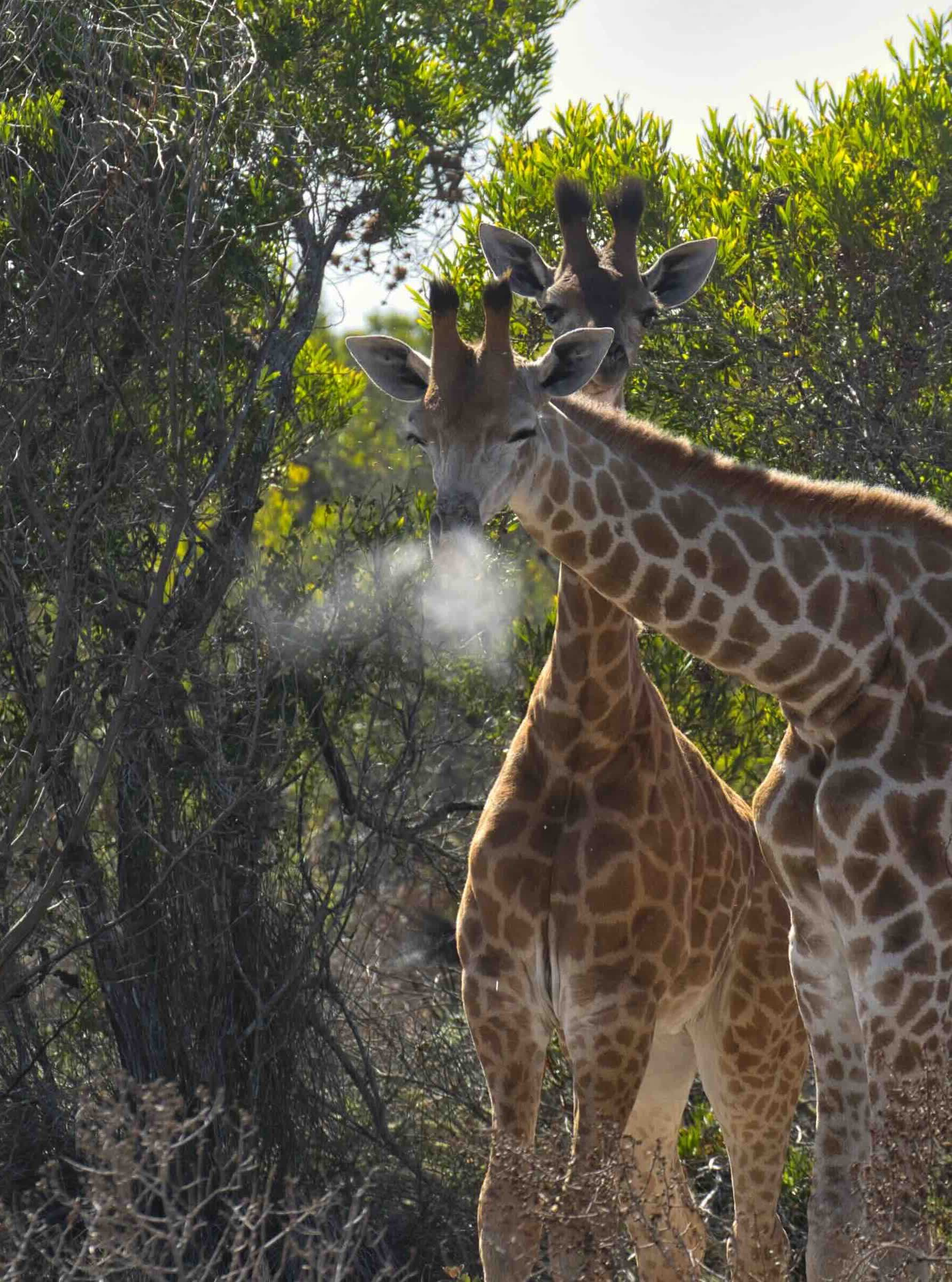
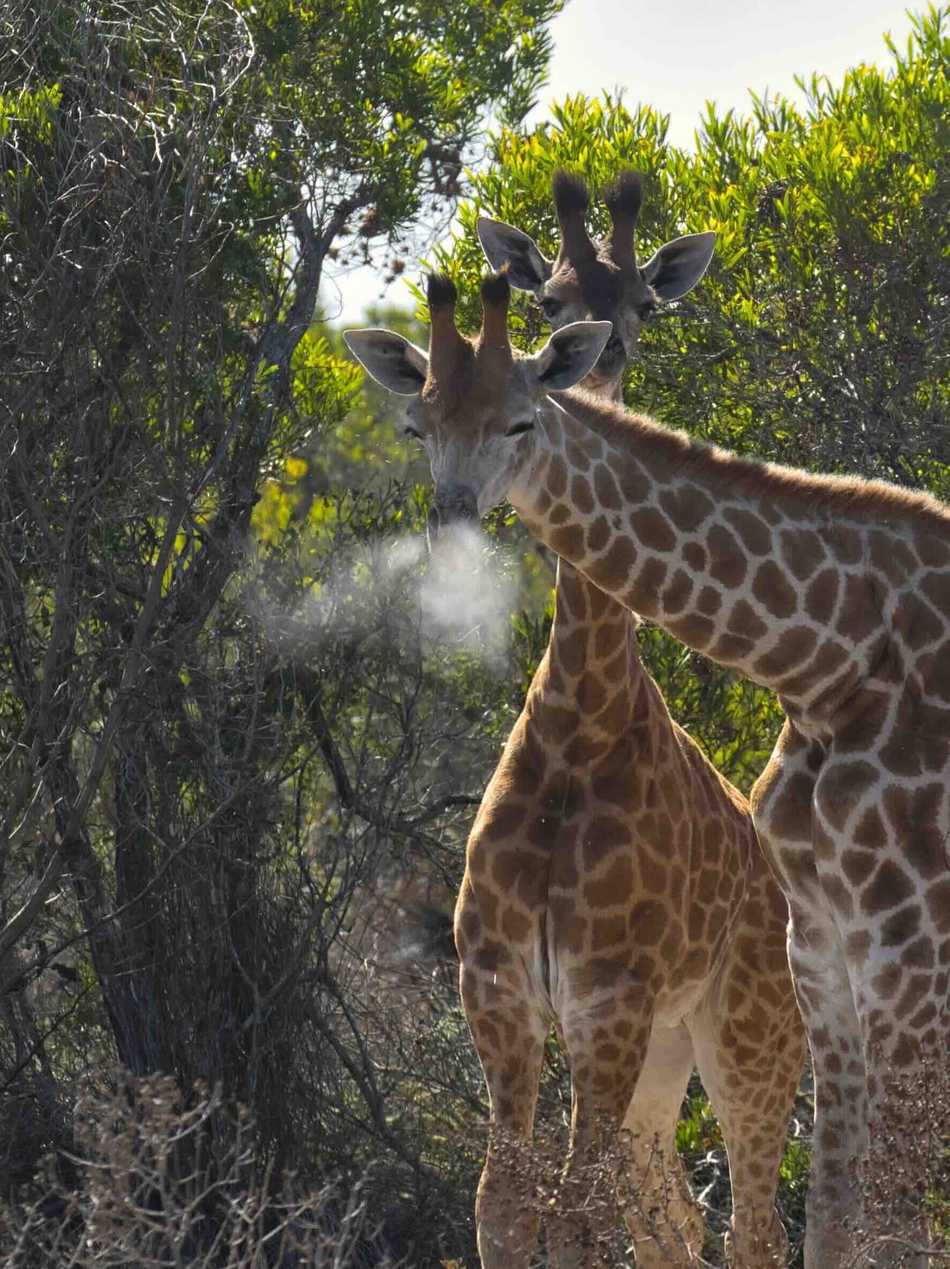
add image description to imageGrid2

diff --git a/frontend/app/components/blog/image-grid-2-mixed.tsx b/frontend/app/components/blog/image-grid-2-mixed.tsx
@@ -3,6 +3,8 @@ import { addRoundedCornersToImages } from "./image-utils";
 
 interface ImageGrid2MixedProps {
   children: ReactNode;
+  description1?: string;
+  description2?: string;
 }
 
 /**
@@ -15,14 +17,22 @@ interface ImageGrid2MixedProps {
  *
  * Layout:
  * [Landscape (2/3)] [Portrait (1/3)]
+ *
+ * Optional: description1 and description2 display italic captions below each image.
  */
-export function ImageGrid2Mixed({ children }: ImageGrid2MixedProps) {
+export function ImageGrid2Mixed({ children, description1, description2 }: ImageGrid2MixedProps) {
   const images = addRoundedCornersToImages(children);
 
   return (
     <div className="grid grid-cols-1 md:grid-cols-3 gap-4 my-6">
-      <div className="md:col-span-2">{images[0]}</div>
-      <div className="md:col-span-1 md:flex md:items-center">{images[1]}</div>
+      <div className="md:col-span-2">
+        {images[0]}
+        {description1 && <p className="image-description text-center italic !mt-2">{description1}</p>}
+      </div>
+      <div className="md:col-span-1 md:flex md:flex-col md:justify-center">
+        {images[1]}
+        {description2 && <p className="image-description text-center italic !mt-2">{description2}</p>}
+      </div>
     </div>
   );
 }

diff --git a/frontend/app/components/blog/image-grid-2.tsx b/frontend/app/components/blog/image-grid-2.tsx
@@ -3,6 +3,8 @@ import { addRoundedCornersToImages } from "./image-utils";
 
 interface ImageGrid2Props {
   children: ReactNode;
+  description1?: string;
+  description2?: string;
 }
 
 /**
@@ -15,14 +17,22 @@ interface ImageGrid2Props {
  *
  * Layout:
  * [Image 1 (50%)] [Image 2 (50%)]
+ *
+ * Optional: description1 and description2 display italic captions below each image.
  */
-export function ImageGrid2({ children }: ImageGrid2Props) {
+export function ImageGrid2({ children, description1, description2 }: ImageGrid2Props) {
   const images = addRoundedCornersToImages(children);
 
   return (
     <div className="grid grid-cols-1 md:grid-cols-2 gap-4 my-6">
-      <div>{images[0]}</div>
-      <div>{images[1]}</div>
+      <div>
+        {images[0]}
+        {description1 && <p className="image-description text-center italic !mt-2">{description1}</p>}
+      </div>
+      <div>
+        {images[1]}
+        {description2 && <p className="image-description text-center italic !mt-2">{description2}</p>}
+      </div>
     </div>
   );
 }
